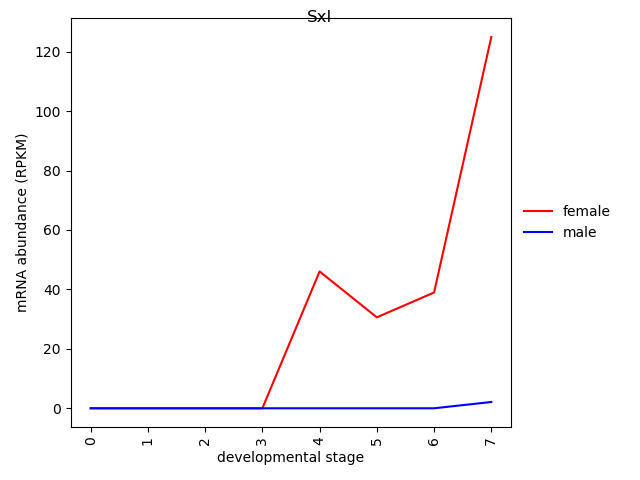
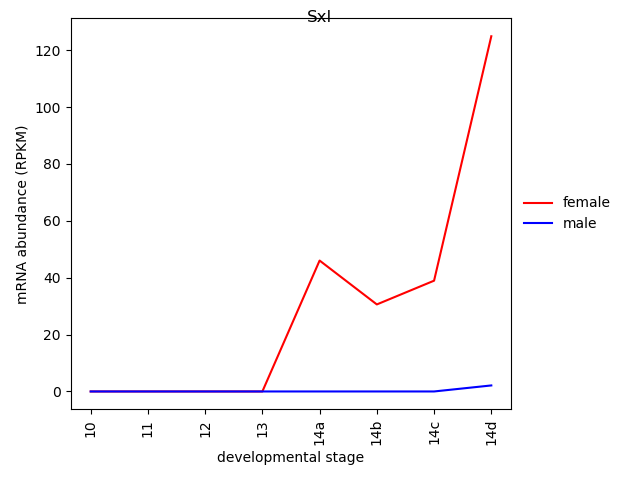
updating/finalizing all scripts and graphs

diff --git a/day4-homework/timecourse2.py b/day4-homework/timecourse2.py
@@ -1,8 +1,8 @@
 #!/usr/bin/env python3
 
 """
-Usage: ./timecourse.py <t_name> <samples.csv> <directory>
-Create a timecourse of a given transcript (FBtr0331261), with both sexes plotted 
+Usage: ./timecourse2.py <t_name> <samples.csv> <directory> <replicates.csv>
+Create a timecourse of a given transcript (FBtr0331261) for a given sex 
 """
 
 import sys
@@ -11,16 +11,21 @@ import numpy as np
 import matplotlib.pyplot as plt
 import pandas as pd
 
-df = pd.read_csv(sys.argv[2])
-#open the samples.csv and read it
-def timecourse(sex):
+#df = pd.read_csv(sys.argv[2])
+#open the file.csv and read it
+def timecourse(sex, file):
     #make a function to be able to generalize the commands with input from the command line
-    df = pd.read_csv(sys.argv[2])
+    df = pd.read_csv(file)
     soi = df.loc[:, "sex"] == sex
     #filtering based on the user's choice of sex
     df = df.loc[soi, :]
     #apply the filter to the full dataframe
-    fpkms = []
+    if file == sys.argv[2]:
+        fpkms = []
+        #if the file is samples.csv then proceed as the last script did
+    elif file == sys.argv[4]:
+        fpkms = [None, None, None, None]
+        #if the file is replicates.csv, then add four empty entries to account for skipping the first four life stages
     for index, sample, sex, stage in df.itertuples():
         filename = os.path.join(sys.argv[3], sample, "t_data.ctab")
         ctab_df = pd.read_table(filename, index_col = "t_name")
@@ -28,17 +33,21 @@ def timecourse(sex):
         #add the FPKMs to a list, indexed by t name
     return fpkms
 
-fpkms_f = timecourse("female")
-fpkms_m = timecourse("male")
+fpkms_f1 = timecourse("female", "samples.csv")
+fpkms_m1 = timecourse("male", "samples.csv")
+fpkms_f2 = timecourse("female", "replicates.csv")
+fpkms_m2 = timecourse("male", "replicates.csv")
 #run the function with input as female and then again with the input as male
 
+
 fig, ax = plt.subplots()
-ax.plot(fpkms_f, color = "red", label = "female")
-ax.plot(fpkms_m, color = "blue", label = "male")
-fig.suptitle("Sxl")	
+ax.plot(fpkms_f1, color = "red", label = "female1")
+ax.plot(fpkms_m1, color = "blue", label = "male1")
+ax.plot(fpkms_f2, color = "red", label = "female2")
+ax.plot(fpkms_m2, color = "blue", label = "male2")
+fig.suptitle(sys.argv[1])	
 plt.xticks(rotation=90)
 plt.xticks(np.arange(8), ("10", "11", "12", "13", "14a", "14b", "14c", "14d"))
-
 ax.set_xlabel("developmental stage")
 ax.set_ylabel("mRNA abundance (RPKM)")	
 plt.tight_layout()
@@ -46,5 +55,5 @@ box = ax.get_position()
 ax.set_position([box.x0, box.y0, box.width * 0.8, box.height])
 ax.legend(loc = "center left", bbox_to_anchor=(1, 0.5), frameon = False)
 #all of this for the figure legend
-fig.savefig("timecourse.png")
+fig.savefig("timecourse2.png")
 plt.close(fig)

diff --git a/day4-homework/combine.py b/day4-homework/combine.py
@@ -2,6 +2,7 @@
 
 """
 Usage: ./combine.py <samples.csv> <ctab_dire>
+Make a new ctab file that contains the transcript name and corresponding FPKM values for all 16 samples
 """
 
 import sys
